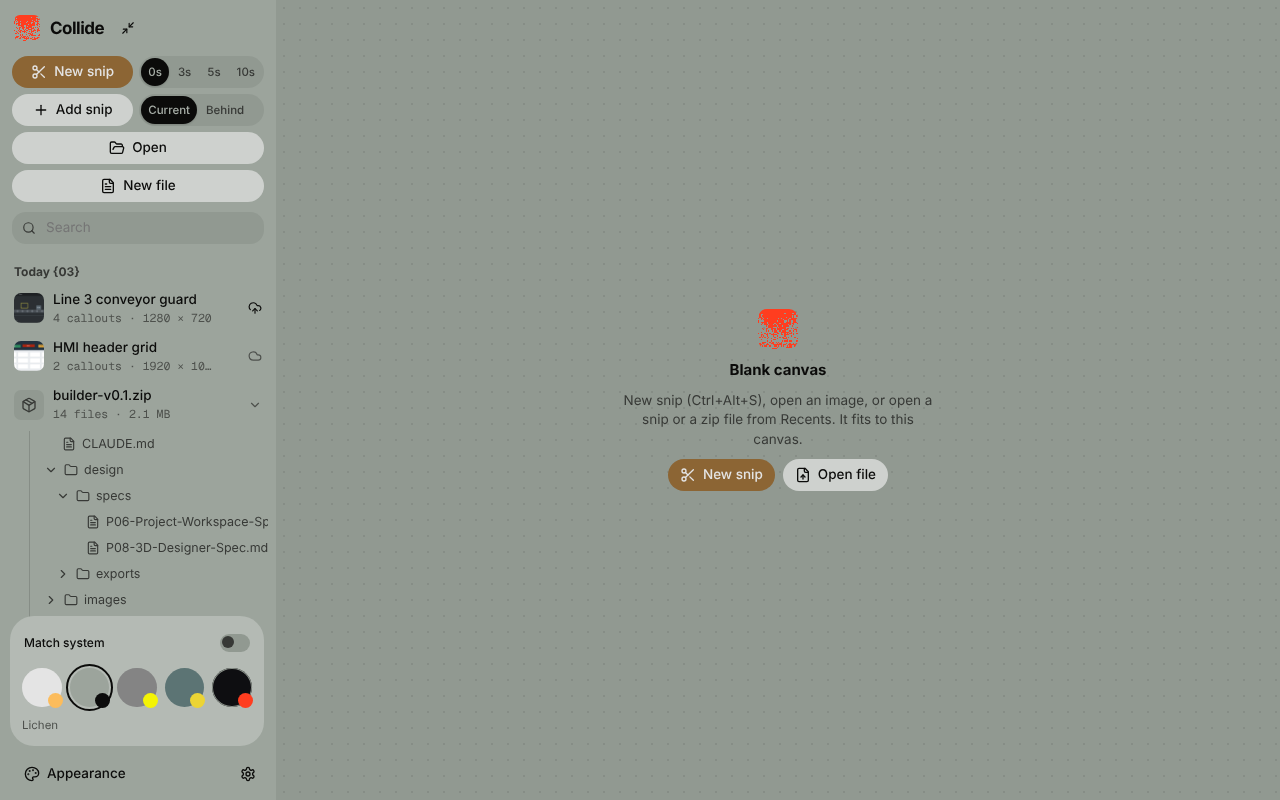
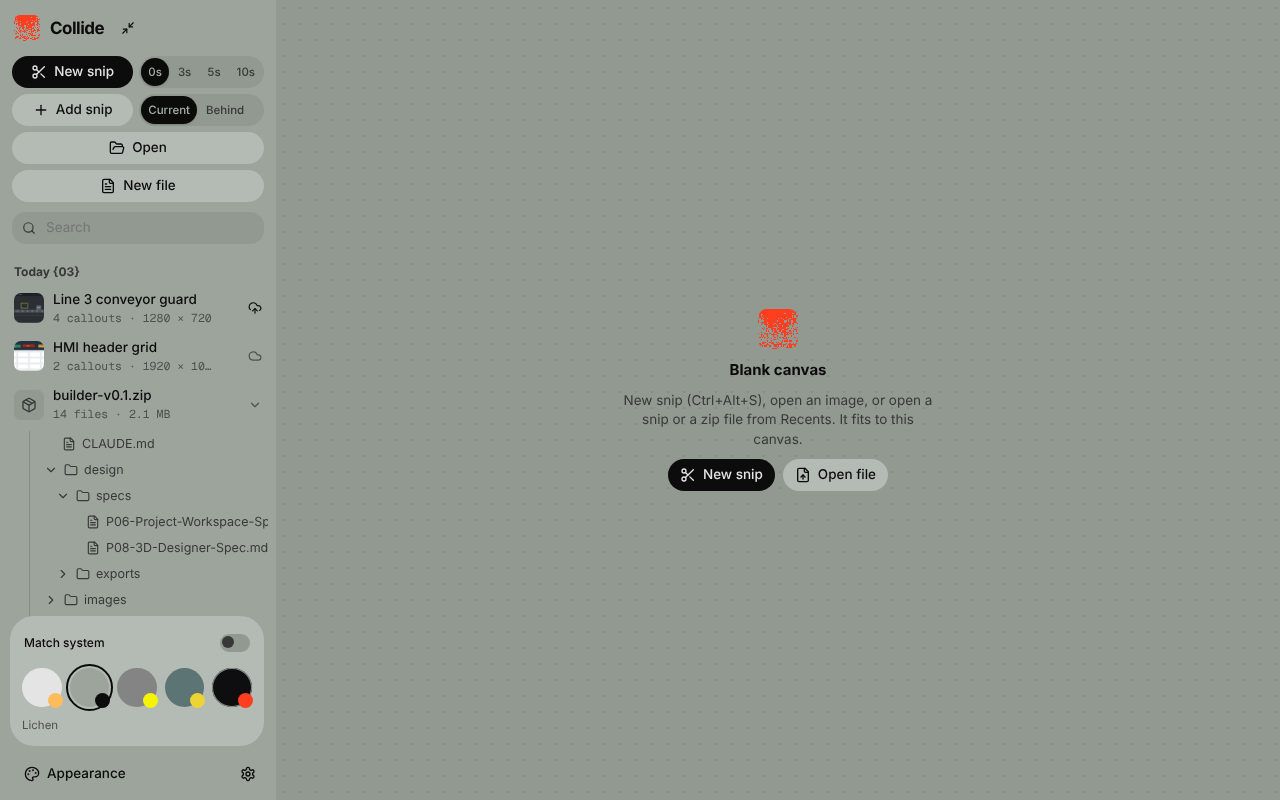
T52: review round 1: body fade kept, Match system follows the computer live
Body colour fade restored (also off under reduced motion). Shell keeps
systemDark from the matchMedia change event, passes it to the Sidebar and
into themeKey; state().aura reports the ground in use. ISSUES 62 updated;
screenshots regenerated with T52_SHOTS=1.

Claude-Session: https://claude.ai/code/session_01EJCU4HRCouFVXAmVQiQoDt

Changed region(s): [[0.0, 0.0625, 0.2188, 0.25], [0.5, 0.5625, 0.6875, 0.625]]

diff --git a/products/collide/app/src/shell/Shell.tsx b/products/collide/app/src/shell/Shell.tsx
@@ -30,7 +30,7 @@ import {
 import { createSnipFlow } from "../snip/flow";
 import { electronDeps, isDesktop } from "../snip/electronDeps";
 import { Blank, FileTab, SettingsTab, Splash, TabBar, Toasts, WsHead, type FileDoc, type Notice } from "./parts";
-import { applyTheme, loadPrefs, savePref, type Prefs } from "./prefs";
+import { applyTheme, loadPrefs, prefersDark, savePref, type Prefs } from "./prefs";
 import { collideRow, flatFiles, patchZipFile, PICTURES, pictureNames, sortFolders, storeRow, withPicture, zipFile, type RecentItem, type RecentSnip, type RecentZip, type TreeNode } from "./recents";
 import { SAMPLE_OPEN, sampleArt, sampleDoc, sampleRecents, sampleSnip, wantsSample } from "./sample";
 import { Sidebar } from "./Sidebar";
@@ -190,15 +190,23 @@ export function Shell() {
   );
 
   // ---------- Theme ----------
+  // T52 review: whether the computer asks for dark, kept live from its change event, so with Match system on the
+  // pressed swatch, the hint, the Recents labels, the splash banner and the canvases follow a switch at once.
+  const [systemDark, setSystemDark] = useState(prefersDark);
+  const systemDarkRef = useRef(systemDark);
+  systemDarkRef.current = systemDark;
   useEffect(() => {
-    applyTheme(prefs.theme, prefs.aura);
-    if (prefs.theme !== "system" || typeof window.matchMedia !== "function") return;
+    if (typeof window.matchMedia !== "function") return;
     const mq = window.matchMedia("(prefers-color-scheme: dark)");
-    const follow = () => applyTheme("system", prefs.aura);
+    const follow = () => setSystemDark(prefersDark());
+    follow();
     mq.addEventListener?.("change", follow);
     return () => mq.removeEventListener?.("change", follow);
-  }, [prefs.theme, prefs.aura]);
-  const themeKey = `${prefs.theme}:${prefs.aura}`;
+  }, []);
+  useEffect(() => {
+    applyTheme(prefs.theme, prefs.aura, document.documentElement, systemDark);
+  }, [prefs.theme, prefs.aura, systemDark]);
+  const themeKey = `${prefs.theme}:${prefs.aura}:${systemDark}`;
   useEffect(() => {
     document.body.classList.toggle("compact-bg", prefs.collapsed);
     return () => document.body.classList.remove("compact-bg");
@@ -1040,7 +1048,7 @@ export function Shell() {
       state: () => {
         const { prefs: p, tabs: t, ask: a } = live.current;
         return refState(
-          { tabs: t.tabs, active: t.active, theme: p.theme, aura: p.aura, snipDelay: p.snipDelay, addMode: p.addMode, collapsed: p.collapsed, splash: a ? { kind: a.kind, title: askTitle(a) } : null },
+          { tabs: t.tabs, active: t.active, theme: p.theme, aura: p.aura, systemDark: systemDarkRef.current, snipDelay: p.snipDelay, addMode: p.addMode, collapsed: p.collapsed, splash: a ? { kind: a.kind, title: askTitle(a) } : null },
           activeTab(t)?.kind === "snip" ? (editor.current?.refInput() ?? null) : null,
           activeTab(t)?.kind === "markdown" ? (mdEditor.current?.refInput() ?? null) : null,
           activeTab(t)?.kind === "pdf" ? (pdfEditor.current?.refInput() ?? null) : null,
@@ -1224,6 +1232,7 @@ export function Shell() {
     <div className={cls} data-testid="app-root" data-frame={isDesktop() ? "native" : "browser"}>
       <Sidebar
         prefs={prefs}
+        systemDark={systemDark}
         onDelay={(s) => setPref("snipDelay", s)}
         onAddMode={(m) => setPref("addMode", m)}
         onTheme={(t) => setPref("theme", t)}

diff --git a/products/collide/app/src/shell/Sidebar.tsx b/products/collide/app/src/shell/Sidebar.tsx
@@ -8,7 +8,7 @@ import { useEffect, useRef } from "react";
 import type { KeyboardEvent as ReactKeyboardEvent, ReactNode, Ref } from "react";
 import { Icon } from "../ds";
 import { CollapseButton, Logo } from "./parts";
-import { ADD_MODES, SNIP_DELAYS, groundInUse, prefersDark, resolveTheme, type AddMode, type AuraGround, type Prefs, type Theme } from "./prefs";
+import { ADD_MODES, SNIP_DELAYS, groundInUse, resolveTheme, type AddMode, type AuraGround, type Prefs, type Theme } from "./prefs";
 import { filterRecents, groupRecents, recentTags, snipMeta, type RecentItem, type RecentZip, type TreeNode } from "./recents";
 
 const DELAY_TITLE: Record<number, string> = { 0: "No delay", 3: "Wait 3 seconds", 5: "Wait 5 seconds", 10: "Wait 10 seconds" };
@@ -27,8 +27,7 @@ const LOOKS = [
 ] as const;
 type LookId = (typeof LOOKS)[number]["id"];
 /** The look in use, or null for one that is not among the five (an older saved choice: another Aura ground, or the old Light). */
-function currentLook(theme: Theme, aura: AuraGround): LookId | null {
-  const dark = prefersDark();
+function currentLook(theme: Theme, aura: AuraGround, dark: boolean): LookId | null {
   if (resolveTheme(theme, dark) === "dark") return "dark";
   const ground = groundInUse(theme, aura, dark);
   return LOOKS.find((l) => l.aura !== null && l.aura === ground)?.id ?? null;
@@ -57,6 +56,8 @@ function SegToggle<T extends string | number>({ label, value, options, onChange,
 
 export interface SidebarProps {
   prefs: Prefs;
+  /** The computer asks for dark (kept live by the shell, T52 review), for Match system. */
+  systemDark: boolean;
   onDelay: (seconds: number) => void;
   onAddMode: (m: AddMode) => void;
   onTheme: (t: Theme) => void;
@@ -186,8 +187,8 @@ export function Sidebar(p: SidebarProps) {
   // Tags come from the snips in Recents (Grant 2026-11-17: no sample tags in the real app); none, no Tags section.
   const tags = recentTags(p.rows);
   // The Aura label style follows the look in use, so Match system on a light computer (Paper) gets it too (T52).
-  const aura = resolveTheme(prefs.theme, prefersDark()) === "aura";
-  const look = currentLook(prefs.theme, prefs.aura);
+  const aura = resolveTheme(prefs.theme, p.systemDark) === "aura";
+  const look = currentLook(prefs.theme, prefs.aura, p.systemDark);
   // A swatch picks that look and turns Match system off; the switch back on follows the computer again.
   const pickLook = (l: (typeof LOOKS)[number]) => {
     p.onTheme(l.theme);

diff --git a/products/collide/app/src/editor/refState.ts b/products/collide/app/src/editor/refState.ts
@@ -6,6 +6,7 @@
 import type { Shape } from "../model";
 import { calloutNumbers, fillPctOf, hiddenOf } from "./engine";
 import { isRole, type Role } from "./tools";
+import { AURA_GROUNDS, THEMES, groundInUse, type AuraGround, type Theme } from "../shell/prefs";
 
 export interface RefItem {
   id: string;
@@ -104,11 +105,20 @@ export interface ShellRefInput {
   /** The theme as chosen: "system", "light", "dark" or "aura". */
   theme: string;
   aura: string;
+  /** The computer asks for dark (Match system); absent = dark, as without matchMedia. */
+  systemDark?: boolean;
   /** New snip delay in seconds (0 = none). */
   snipDelay: number;
   addMode: string;
   collapsed: boolean;
   splash: RefState["splash"];
+}
+
+/** The Aura ground in use, or null when the look is not Aura (T52: Match system on a light computer is "paper"). */
+function auraInUse(shell: ShellRefInput): string | null {
+  const known = (THEMES as readonly string[]).includes(shell.theme) && (AURA_GROUNDS as readonly string[]).includes(shell.aura);
+  if (!known) return shell.theme === "aura" ? shell.aura : null;
+  return groundInUse(shell.theme as Theme, shell.aura as AuraGround, shell.systemDark ?? true);
 }
 
 const r2 = (v: number) => Math.round(v * 100) / 100;
@@ -172,7 +182,8 @@ export function refState(shell: ShellRefInput, editor: RefInput | null, md: MdRe
     selection: snip && snip.selectedId !== null ? [snip.selectedId] : page && page.selectedId !== null ? [page.selectedId] : [],
     zoom,
     theme: shell.theme,
-    aura: shell.theme === "aura" ? shell.aura : null,
+    // The Aura ground in use (T52: Match system on a light computer reports "paper").
+    aura: auraInUse(shell),
     sidebar: { delay: delayLabel(shell.snipDelay), addMode: shell.addMode, collapsed: shell.collapsed },
     splash: shell.splash ? { kind: shell.splash.kind, title: shell.splash.title } : null,
     pdf: pdf ? { pageIndex: pdf.pageIndex, pageCount: pdf.pageCount } : null,

diff --git a/products/collide/app/src/shell/shell.css b/products/collide/app/src/shell/shell.css
@@ -75,8 +75,7 @@
 
 /* ---------- Base ---------- */
 html, body, #root { height: 100%; }
-/* T52 (A): no colour fade on body; a theme change is instant, like the rest of the shell (the fade only moved the body's ground). */
-body { margin: 0; background: var(--bg); color: var(--t1); font: 400 13.5px/1.45 var(--font-ui); overflow: hidden; }
+body { margin: 0; background: var(--bg); color: var(--t1); font: 400 13.5px/1.45 var(--font-ui); overflow: hidden; transition: background-color 240ms ease-out, color 240ms ease-out; }
 body.compact-bg { background: color-mix(in srgb, var(--t1) 14%, var(--bg)); }
 .app, .app *, .splash, .splash * { box-sizing: border-box; }
 /* No specificity, so each control's own class decides its font and colour. */
@@ -84,7 +83,7 @@ body.compact-bg { background: color-mix(in srgb, var(--t1) 14%, var(--bg)); }
 :where(.app, .splash, .toasts) :where(button) { cursor: pointer; }
 .app, .splash, .toasts { letter-spacing: normal; }
 .app :focus-visible, .splash :focus-visible { outline: 1px solid var(--accent); outline-offset: 1px; box-shadow: 0 0 0 3px var(--accent-soft); }
-@media (prefers-reduced-motion: reduce) { .app *, .splash, .splash * { transition: none !important; animation: none !important; } }
+@media (prefers-reduced-motion: reduce) { body, .app *, .splash, .splash * { transition: none !important; animation: none !important; } }
 .label { font: var(--label-weight) var(--label-size)/1 var(--font-label); letter-spacing: var(--label-track); text-transform: var(--label-case); color: var(--t3); }
 .mono { font-family: var(--font-mono); font-size: 11.5px; }
 .hint { color: var(--t4); font-size: 11.5px; }

diff --git a/products/collide/app/src/shell/prefs.ts b/products/collide/app/src/shell/prefs.ts
@@ -114,8 +114,7 @@ export function groundInUse(theme: Theme, aura: AuraGround, dark: boolean): Aura
 }
 
 /** Put the theme on <html>: data-app-theme is the look in use (light, dark or aura); data-aura-theme the Aura ground. */
-export function applyTheme(theme: Theme, aura: AuraGround, root: HTMLElement = document.documentElement): void {
-  const dark = prefersDark();
+export function applyTheme(theme: Theme, aura: AuraGround, root: HTMLElement = document.documentElement, dark: boolean = prefersDark()): void {
   root.dataset.appTheme = resolveTheme(theme, dark);
   const ground = groundInUse(theme, aura, dark);
   if (ground) root.dataset.auraTheme = ground;

diff --git a/products/collide/ISSUES.md b/products/collide/ISSUES.md
@@ -65,4 +65,4 @@ Things blocking progress or needing Grant's input, right now. Whoever hits one a
 | 59 | Tester (Lydia) / Coder | T49 | Old Edit / Preview assertions changed, as the ticket asks (commit 36e4b8a; only where the toggle is gone, the file's text now read from the editor's `.cm-line`s): `e2e/markdown.spec.ts` (Insert image now "at the caret, the end of the file when the editor was never clicked", no Edit click; Save keeps the text: the rectangle placed from `.md-h1` instead of the `<h1>` heading, typing into `.cm-content` instead of the Edit textbox; "the page keeps its scroll through Edit / Preview and another tab" became "through another tab"); `e2e/headerToolbars.spec.ts` (6.2 "no Edit button, text tools on" instead of clicking Edit; 6.3 "Preview and Edit both copy" became "Copy gives a picture of the page", the Edit-mode copy toast "Copied the page as a PNG" gone; 6.4 Save as MD reads the editor's lines); `e2e/fitKey.spec.ts` (Markdown: F fits the page, an f typed in the text is text, no Edit click); `e2e-electron/collide.spec.ts` (the reopened `.collide` text is checked in the editor's lines instead of Edit's textbox); `src/shell/headerT45.test.tsx` (one view with both rows, no Edit / Preview; "a tool picked in Edit opens the Preview" became "a callout tool turns on, no view to switch"). One new test is wrong against the ticket and fails (not edited, as the rules ask): `e2e/markdownLive.spec.ts:46` "no textarea in the Workspace" counts the callout cards' note boxes (`Note for callout 1/2`, textareas in the Callouts list), which the ticket keeps ("cards and the list keep working"); P06 has two callouts, so it finds 2. Tester: narrow it to the page (e.g. `.mdpage textarea`) or exclude the list. | Open Correction (Lydia): the "no textarea" check in `e2e/markdownLive.spec.ts` now covers the page and the editor only (`.mdpage textarea, .cm-editor textarea`); the callout cards keep their note textareas, as the ticket says. |
 | 60 | Coder (Hrongar) | T49 | One live editor, CodeMirror 6 (pinned: state 6.7.6, view 6.43.15, commands 6.11.1, lang-markdown 6.5.2, language 6.13.1). (A) choices: (1) the page you type into is the CodeMirror editor under the markup canvas; with Select a press goes to the text unless it lands on a callout (then the canvas selects and moves it), a drawing tool makes the text read-only and draws; (2) the whole page is drawn, not only the visible part (CodeMirror's print switch kept on, `livePage.ts`), so every line is on the page under the callouts; (3) Copy, Save as PNG/JPEG/PDF and the `.collide` preview draw the page with markdown-it (as the ticket says) under the callouts at the same page pixels; the live page shows the marks and has its own line spacing, so a callout can sit a little off its text in the picture (the sample P06 callouts were placed on the old rendered page and now sit a few lines off on the live page too); (4) markers dimmed (`--t4`, opacity 0.7), headings 24 / 17 / 14.5 px as the rendered page, code in `--font-mono`; heading lines also carry `role="heading"` with their level; a picture link shows its picture under its line (zip pictures only, markdown-it's image rule); (5) the Markdown language alone (GFM), not `markdown()`: Enter does not continue lists, a pasted URL is not turned into a link, no HTML / code-block languages (keeps the HTML, CSS and JS parsers out of the bundle); (6) a line tool (Heading, List, Num list, Label) on a selection keeps those lines selected, so the same tool again takes the mark off (Lydia's `cmTools.test.ts`); the prototype's "Num list, then Label on the line the selection ends in" now labels every selected line; (7) a pasted picture's alt text is its file name (`pasted-HHMMSS`), as Insert image's is (was "Pasted image"; Lydia's `markdownLive.spec.ts`); (8) a picture goes at the caret once the editor has had one, else at the end of the file; (9) text undo is CodeMirror's (Ctrl+Z / Ctrl+Y while typing); the toolbar Undo / Redo and Ctrl+Z outside the text undo the markup; (10) Save source now also marks a Markdown tab Saved (the text and markup are in the file); (11) the text tools' accessible names are their titles ("Bulleted list", "Insert a table", "Label line", "Numbered list"; visible labels unchanged); (12) a tab's editor state (text, selection, undo steps) is kept while another tab is in front. Bundle (`vite build`): before `dist/` 3,047,695 B, main JS 1,147,510 B (gzip 407,887); after `dist/` 3,357,550 B, main JS 1,455,867 B (gzip 508,217): +310 KB / +100 KB gzip (with `markdown()` it was +500 KB, the HTML/CSS/JS languages). `pnpm ref:app` 10/15: the three of row 53 unchanged (same steps), plus `markdown-text-tools.spec.ts` and `paste-image.spec.ts` fail at their first step, the Edit button (line 13, line 40), gone by T49 (they also read a textbox, the live preview's `<table>` and `![Pasted image]`). `markdown-margin-drawing`, `markdown-zoom` and `order-numbers-and-eraser` pass (heading lines keep the heading role). Grant: OK, or the copied picture taken from the live page (marks shown, callouts exactly on their text) instead of markdown-it's? | Open |
 | 61 | Coder (Hrongar) | T50 | Compact header buttons and the minimum window size. **Minimum: 1197 x 415 CSS px of page area** (the window's content size at 100% zoom; `src/native/minSize.ts`, given to the editor window as `useContentSize`, `minWidth`, `minHeight`). How measured: Playwright (Chromium, `pnpm e2e` setup) with a Snip tab and one callout, a Markdown tab (P06) and a PDF tab (two-pages.pdf); the viewport stepped down (width 1280, 1200, 1130 ... 1110 then 1 px steps; height 800 ... 240 then 1 px steps) and at each size checked: sidebar, header, toolbar and callout panel inside the page and apart, no button outside the toolbar, toolbar and header not scrolling, no page scroll, the sidebar's compact block and the first callout card in view. Results: the Snip toolbar needs 842 px (window 1118: at 1116 it scrolls); **the Markdown toolbar's first row needs 921 px, so 921 + the 276 px sidebar = 1197** (at 1196 it scrolls; the PDF toolbar fits at 1197); the header never sets the width (it goes icon-only). Height: the toolbar, header and sidebar fit far lower (the sidebar's content needs 307); **415 is the smallest height at which the callout panel shows its first callout card whole without its list scrolling** (414 scrolls). (A) choices: (1) the height rule is "one whole callout card, no scrolling in the list" (the canvas then has about 230 px); (2) the header switches to icons when it is narrower than its buttons' measured widths with words plus 120 px kept for the file name (`HEAD_NAME_MIN`), measured by a ResizeObserver on the header and its items, each button's width-with-words remembered by its label, so one threshold per header and no flicker; `.wshead` always has `data-compact`; (3) Save, Save source, Save as and Copy now always carry an aria-label (Save, Save source, Save as, Copy to clipboard) and their icon is the same Lucide mask drawn on an `<svg>` box (Lydia's test finds the icon as `svg`; the other icons stay `<span>`s); Save as keeps its chevron; Close keeps its word; (4) the old `@media (max-width: 820px)` rule hiding the words is removed, the phone layout's other header rules stay; (5) the window opens at 1280 x 800 of page area (`useContentSize`), a frame larger than before; (6) Expand restores exactly MIN_WIDTH x MIN_HEIGHT plus the window's frame (`collapse.ts` `minimum`), not the minimum read before the collapse (`src/native/collapseMin.test.ts`); (7) the dev build's menu bar is hidden (`autoHideMenuBar`, Alt shows it; the packaged app has no menu), so the page area is the window's content size, as Lydia's Electron test reads it; (8) the minimum is in window units at zoom 1: a page zoomed with Ctrl+= can clip at the minimum. Review round 1 (Farengar): (9) on a small or high-scaling screen (a work area under 1197 x 415 plus the frame, e.g. 1366 x 768 at 125% or more) the window opens inside its screen's work area and its minimum is min(MIN + frame, work area) per side (`fitWindow`, `fitMinimum`, `fitBounds` in `src/native/minSize.ts`, `src/native/fitMinimum.test.ts`); Expand clamps the same way to the work area of the screen the window goes back to, so the layout can then clip on such a screen; (10) Expand unmaximizes before it reads the frame (the frame of the normal window); (11) the header has one ResizeObserver for its life, and the remembered word widths are cleared and measured again when fonts finish loading. **Conflict for Lydia (tests not edited):** five older Electron tests place the window below the new minimum and wait for exact bounds, so they now fail: `e2e-electron/compact.spec.ts` lines 43, 61, 120 (1100 x 700, 1000 x 650) and 82 (900 x 400), and `e2e-electron/snip.spec.ts` line 111 (1100 x 700). Any minimum that fits the Snip toolbar (1118) is above 1100, so they need windows of at least MIN_WIDTH x MIN_HEIGHT (for example `MIN_WIDTH + 100`). `pnpm ref:app` 10/15, unchanged (rows 53, 60). Grant: OK with 1197 x 415, or a narrower Markdown toolbar first row so the minimum can be lower? | Open **Electron tests moved above the minimum (Lydia, T50):** `e2e-electron/compact.spec.ts` line 49 (windowed, no tab) 1100x700 → (MIN_WIDTH + 100)x700; line 67 (a tab open) 1000x650 → (MIN_WIDTH + 100)x650; line 89 (low on the screen) 900x400 → (MIN_WIDTH + 100)x(MIN_HEIGHT + 10); line 126 (minimum comes back) 1100x700 → (MIN_WIDTH + 100)x700; `e2e-electron/snip.spec.ts` line 119 (editor placed so restore is exact) 1100x700 → (MIN_WIDTH + 100)x700. Reason: the T50 minimum (1197 x 415) blocks smaller bounds; only the setup size changed, no assertion. |
-| 62 | Coder (Hrongar) | T52 | Paper is the Aura paper ground (replaces the old Collide Light; Grant 2026-11-20). The Paper swatch sets `theme: "aura"`, `aura: "paper"`; Match system on a light computer applies `data-app-theme="aura"` `data-aura-theme="paper"` (ignoring the remembered ground), on a dark computer Dark as before; a stored `collide.theme = light` still applies the old Light (tokens kept in `shell.css`), but no swatch or Match system reaches it. **Test assertions changed by Lydia (old "Paper = theme light"):** (1) `src/shell/prefs.test.ts` "system follows the computer…": `resolveTheme("system", false)` `"light"` → `"aura"`; (2) `src/App.test.tsx` "themes apply to the whole app: five swatches…": after clicking Paper, `appTheme` `"light"` → `{ appTheme: "aura", auraTheme: "paper" }`, plus Paper `aria-pressed="true"`. (A) choices: (1) `resolveTheme("system", false)` returns `"aura"`; the ground for system is the constant `SYSTEM_LIGHT_GROUND = "paper"` and `groundInUse()` in `prefs.ts` gives the ground in use (Sidebar uses it for the pressed swatch); (2) the Recents day labels take the Aura style (`Today {03}`) whenever the look in use is Aura, so also with Match system on a light computer (was only when `theme` was `aura`); (3) with a stored old Light no swatch is pressed and the hint reads "Collide Light, an older saved choice; pick a swatch to change it."; (4) the 240 ms colour fade on `body` is removed: a theme change is now instant, as for the rest of the shell (Lydia's e2e reads the ground right after the click, and the screenshots would catch the fade half way); (5) the Paper swatch has `data-aura-theme="paper"` from its look, drawn from `--aura-bg` / `--aura-accent` as the other Aura swatches. Screenshots: `reports/T52/` (paper, lichen, ash, slate, dark). `pnpm ref:app` 10/15, unchanged (rows 53, 60; the harness's `collide.theme = light` still gives the old Light). Grant: OK with the instant theme change, and should the old Light tokens be removed in a later task? Test changes after review round 1 (Lydia): `e2e/paperT52.spec.ts` polls colour reads until the 240 ms fade has settled (same end colours, not weakened); a new test switches the computer light/dark with Match system on and checks `<html>`, the swatches and the Recents label style follow live; screenshots are written only with `T52_SHOTS=1` (with `animations: "disabled"`). | Open |
+| 62 | Coder (Hrongar) | T52 | Paper is the Aura paper ground (replaces the old Collide Light; Grant 2026-11-20). The Paper swatch sets `theme: "aura"`, `aura: "paper"`; Match system on a light computer applies `data-app-theme="aura"` `data-aura-theme="paper"` (ignoring the remembered ground), on a dark computer Dark as before; a stored `collide.theme = light` still applies the old Light (tokens kept in `shell.css`), but no swatch or Match system reaches it. **Test assertions changed by Lydia (old "Paper = theme light"):** (1) `src/shell/prefs.test.ts` "system follows the computer…": `resolveTheme("system", false)` `"light"` → `"aura"`; (2) `src/App.test.tsx` "themes apply to the whole app: five swatches…": after clicking Paper, `appTheme` `"light"` → `{ appTheme: "aura", auraTheme: "paper" }`, plus Paper `aria-pressed="true"`. (A) choices: (1) `resolveTheme("system", false)` returns `"aura"`; the ground for system is the constant `SYSTEM_LIGHT_GROUND = "paper"` and `groundInUse()` in `prefs.ts` gives the ground in use (Sidebar uses it for the pressed swatch); (2) the Recents day labels take the Aura style (`Today {03}`) whenever the look in use is Aura, so also with Match system on a light computer (was only when `theme` was `aura`); (3) with a stored old Light no swatch is pressed and the hint reads "Collide Light, an older saved choice; pick a swatch to change it."; (4) the 240 ms colour fade on `body` (from Grant's prototype) is kept, and is now also off under `prefers-reduced-motion`; the e2e tests wait for it to settle before reading colours, and the screenshots are taken with animations disabled (review round 1: an earlier build removed it); (5) the Paper swatch has `data-aura-theme="paper"` from its look, drawn from `--aura-bg` / `--aura-accent` as the other Aura swatches. Review round 1 (Farengar): (6) the shell keeps whether the computer asks for dark as live state (`systemDark`, from the matchMedia change event) and passes it to the Sidebar and into `themeKey` (`theme:aura:systemDark`), so with Match system on, the pressed swatch, the hint, the Recents labels, the splash banner and the canvases follow a light/dark switch at once; (7) `window.__collide.state().aura` reports the ground in use (`groundInUse`), so Match system on a light computer reads `"paper"` (was null; no spec or test reads it there). Screenshots: `reports/T52/` (paper, lichen, ash, slate, dark). `pnpm ref:app` 10/15, unchanged (rows 53, 60; the harness's `collide.theme = light` still gives the old Light). For Lydia: `e2e/paperT52.spec.ts` "the splash banner dots…" calls `seedShape` right after `setInputFiles` without waiting for the image (other specs wait for `status-dims`), so it failed once in a full `pnpm e2e` run under load ("No image is open") and passed on the re-run and in 56 repeated runs; test not edited. Grant: should the old Light tokens be removed in a later task? Test changes after review round 1 (Lydia): `e2e/paperT52.spec.ts` polls colour reads until the 240 ms fade has settled (same end colours, not weakened); a new test switches the computer light/dark with Match system on and checks `<html>`, the swatches and the Recents label style follow live; screenshots are written only with `T52_SHOTS=1` (with `animations: "disabled"`). | Open |
